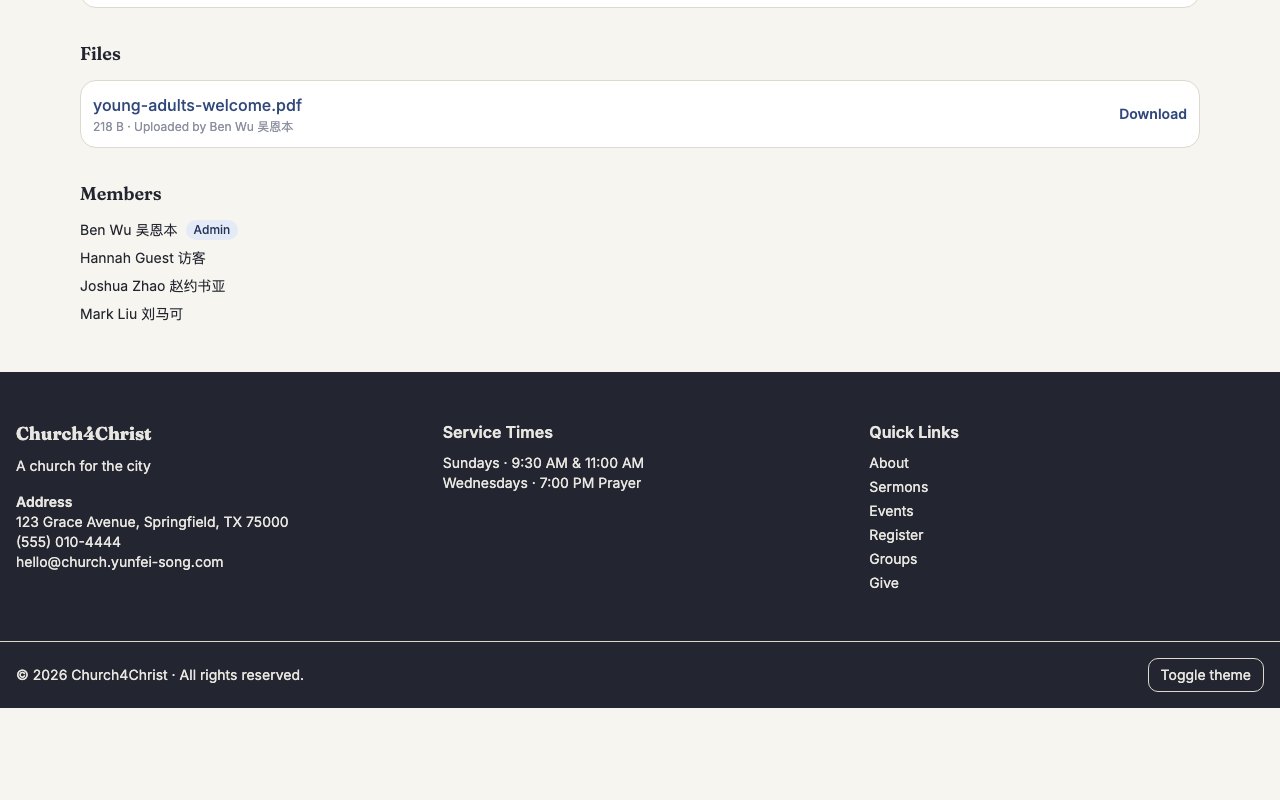
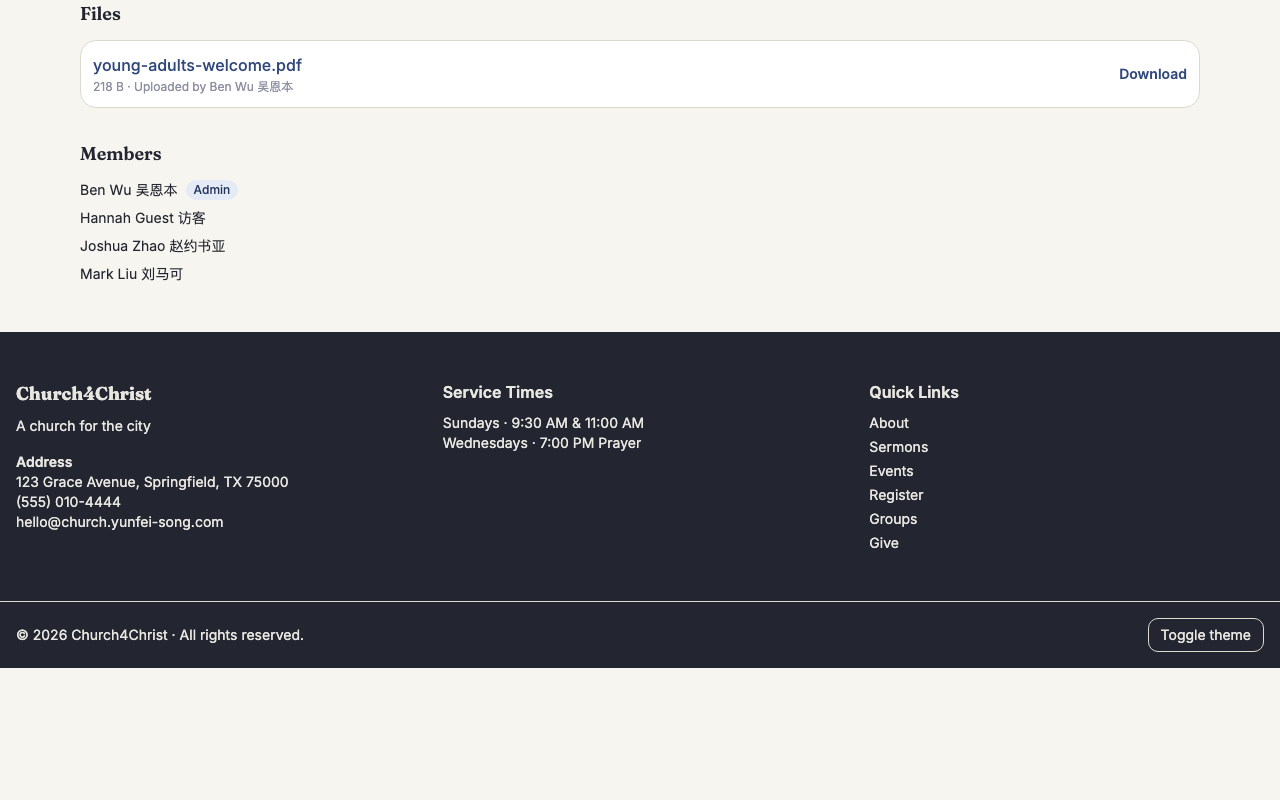
docs: refine member portal guidance

diff --git a/docs/features/member-portal.md b/docs/features/member-portal.md
@@ -12,16 +12,21 @@ the page they requested.
 The portal itself is optional and **Supabase (Postgres)-only**. It is force-disabled
 on D1 even if a stale setting says it is on. Groups and Volunteer Scheduling still
 work independently on D1, while Giving and Registration have their own Supabase-only
-module gates.
+module gates. Portal declares soft `uses` of Volunteer Scheduling and Groups, not hard
+dependencies, so selecting Portal in a custom setup does not automatically enable either
+one.
 
 ## How members use it
 
 ### Start from one dashboard
 
 The dashboard at `/my` greets the signed-in member and keeps their nearest actions
-together: their household, groups, approvals they can handle, event registrations,
-and upcoming serving. The exact cards and tabs depend on which related modules are
-enabled, so a church can expose only the workflows it uses.
+together. The complete composition pictured below uses **Portal + Volunteer Scheduling +
+Groups**: Volunteer Scheduling owns `/my`, Calendar, and the serving data; Portal adds the
+household, event, and prayer views; and Groups supplies the Groups card/tab and protected
+file surface. Giving and Registration are separate switches that add their own tab or
+registration details. Choose these modules explicitly in a custom setup—Portal's soft
+`uses` do not select them for you.
 
 ![The signed-in dashboard for David Chen, with his household, group, prayer approval, event, and serving summary](../images/portal/dashboard.png)
 
@@ -115,9 +120,11 @@ its admin board.
 ### Production or guided setup
 
 1. Follow [`docs/supabase-setup.md`](../supabase-setup.md) and run `npm run setup`.
-   Choose **Full Church**, or explicitly select **Member Portal**; setup selects
-   Supabase, writes the `HYPERDRIVE` and `MEDIA` bindings, runs the current migrations,
-   and records every module setting.
+   Choose **Full Church** for the complete composition pictured above, or explicitly
+   select **Member Portal + Volunteer Scheduling + Groups**. Portal's soft `uses` do not
+   auto-enable the other two. Setup selects Supabase, writes the `HYPERDRIVE` and `MEDIA`
+   bindings, runs the current migrations, and records every module setting. Giving and
+   Registration remain independently gated selections.
 2. Configure the production `MEDIA` R2 bucket. Protected group-file rows in Postgres
    are not useful without the matching R2 objects.
 3. Configure production email by following [Email & automation](email-automation.md).
@@ -138,18 +145,22 @@ its admin board.
 
 The local demo must use a dedicated test Postgres database—never a production database.
 Set `SUPABASE_DB_URL` in the host shell without placing or echoing it in `.dev.vars`, then
-run the normal setup. For manual troubleshooting, the existing commands are:
+run `npm run setup` in Local mode with demo data. That guided path is provider-aware: for a
+Supabase selection it migrates and seeds Postgres, then stages, uploads, and verifies the
+checked-in demo assets in local R2. Never select demo data for a production database.
+
+For DB-only migration or seed troubleshooting, the existing commands are:
 
 ```bash
 npm run db:migrate:supabase
 npm run db:seed:supabase
-npm run db:seed-media:local
 ```
 
-`db:seed:supabase` loads only the repository's fictional people, households, events,
-giving rows, registrations, group-file record, and prayer items. Skip it for production.
-`db:seed-media:local` copies the checked-in demo image pack and protected group PDF into
-local R2 and is safe to rerun after reseeding.
+`db:seed:supabase` loads the entire fictional development seed plus the Giving,
+Registration, and Portal fixtures. It is for an isolated local/demo database only, never
+production. After DB-only troubleshooting, rerun the same guided `npm run setup` Local
+demo-data flow with the same choices so its provider-aware `seed-media` step verifies and
+repairs the matching local R2 image and protected-file objects.
 
 Start local development from the same host shell so Wrangler can build the local
 Hyperdrive binding:
@@ -169,14 +180,17 @@ the module to use the preserved portal data again.
 
 ## Route and module boundaries
 
-The portal navigation is a composition of independently gated capabilities. The table
-below matches `config/capabilities.json` and `src/components/PortalNav.astro`.
+The portal navigation is a composition of independently gated capabilities. A custom
+selection does not follow soft `uses`: selecting Portal alone does not enable Volunteer
+Scheduling or Groups. The full dashboard shown in this guide therefore requires Portal +
+Volunteer Scheduling + Groups. The table below matches `config/capabilities.json` and
+`src/components/PortalNav.astro`.
 
 | Surface | Owning module | Behavior at the boundary |
 |---|---|---|
-| `/my`, `/my/blockouts`, `/my/calendar`, `/cal/*` | `serve` | Available with Volunteer Scheduling; `/my` and the calendar add portal/group/registration data only when those modules are enabled. |
-| `/my/household`, `/my/events`, `/my/serving`, `/my/prayer`, `/email-change/*` | `portal` | Authenticated, Supabase-only portal routes; Portal has soft uses of Groups and Volunteer Scheduling, not hard dependencies. |
-| `/groups/*`, `/signup/*`, `/attendance/*` | `groups` | Works on either backend. Roster and membership rules belong to Groups; protected file panels/downloads additionally require Portal and R2. |
+| `/my`, `/my/blockouts`, `/my/calendar`, `/cal/*` | `serve` | Volunteer Scheduling must be selected for the dashboard and Calendar; Portal does not enable it automatically. Portal/group/registration records enrich these surfaces only when their modules are also enabled. |
+| `/my/household`, `/my/events`, `/my/serving`, `/my/prayer`, `/email-change/*` | `portal` | Authenticated, Supabase-only portal routes. Its `uses` of Groups and Volunteer Scheduling are soft composition hints, not auto-enabled dependencies. |
+| `/groups/*`, `/signup/*`, `/attendance/*` | `groups` | Groups must be selected for the Groups card/tab and directory. It works on either backend; protected file panels/downloads additionally require Portal and R2. |
 | `/events` and `/admin/events` | `events` | Public event and announcement publishing; independent from registration records shown in My Events. |
 | `/register/*`, `/api/register/*`, `/admin/registration/*` | `registration` | Supabase-only and independently switched; enables the open-registration section and registered-event calendar marks. |
 | `/my/giving`, `/give/checkout/*`, `/api/giving/*`, `/admin/giving/*` | `giving` | Supabase-only and independently switched; its PortalNav tab appears only while Giving is enabled. |
